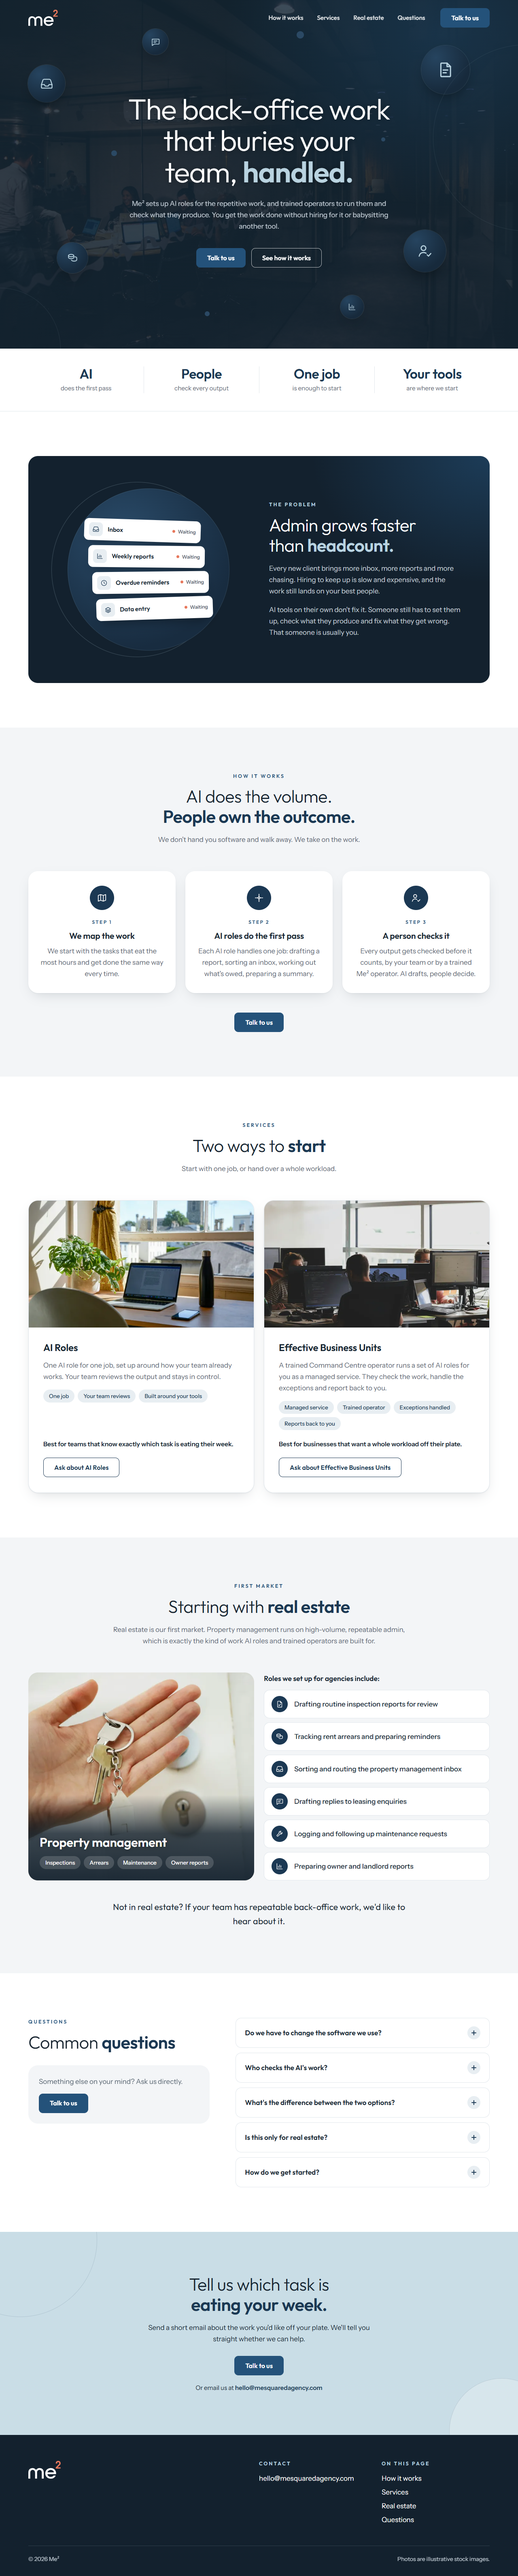
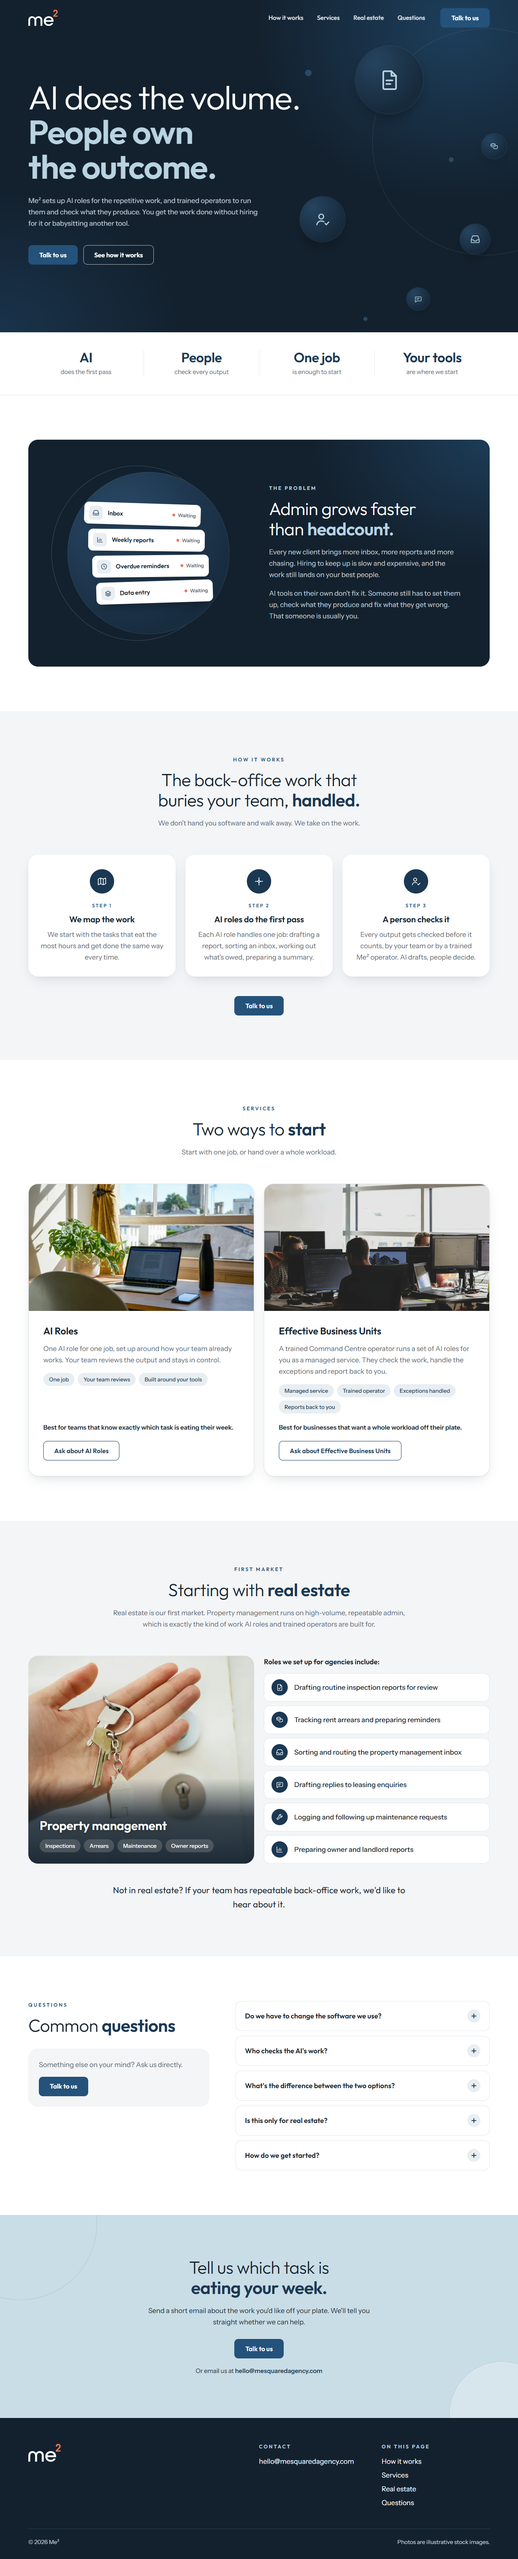
Lead with "AI does the volume. People own the outcome." in the hero
EC preferred this headline, as shown in the link-preview image. The
hero now matches that image: the headline left-aligned in two lines,
the icon bubbles grouped on the right, plain navy with soft glows and
no photo. "The back-office work that buries your team, handled." now
heads the How it works section, so both approved lines stay on the
page. The unused hero photo is removed and the docs updated.
npm run verify: 113 checks, all passing.

diff --git a/src/content/site.ts b/src/content/site.ts
@@ -44,7 +44,7 @@ export const content = {
   },
 
   hero: {
-    h1: 'The back-office work that buries your team, **handled.**',
+    h1: 'AI does the volume. **People own the outcome.**',
     subhead:
       '{SITE_NAME} sets up AI roles for the repetitive work, and trained operators to run them and check what they produce. You get the work done without hiring for it or babysitting another tool.',
     primary: 'Talk to us',
@@ -74,7 +74,7 @@ export const content = {
 
   how: {
     eyebrow: 'How it works',
-    h2: 'AI does the volume. **People own the outcome.**',
+    h2: 'The back-office work that buries your team, **handled.**',
     stepLabel: 'Step',
     cta: 'Talk to us',
     intro: "We don't hand you software and walk away. We take on the work.",

diff --git a/BRIEF.md b/BRIEF.md
@@ -1,5 +1,7 @@
-# Me² — Build Brief v0.9
+# Me² — Build Brief v0.10
 Owner: Elliot Crabb (EC) · Decision-maker: Patrick · Date: 9 Oct 2026 · Mode: New build
+
+v0.10 (9 Oct 2026): EC preferred the "AI does the volume. People own the outcome." hero from the link-preview image. The hero is now that headline, left-aligned, with the icon bubbles grouped on the right and no photo; "The back-office work that buries your team, handled." moves to head How it works.
 
 v0.9 (9 Oct 2026): EC approved the v0.8 direction ("yeah sure"), approved licensed stock photos, and asked that the logo not be forgotten. Adds four Unsplash photos (§5 Imagery), a vector logo traced from the supplied PNG and used in the header, footer, favicon, OG image and `/logo.png`, and copy for the remaining sections (Appendix A: offers, real estate, FAQ, footer).
 
@@ -114,8 +116,8 @@ Copy in Appendix A writes `{SITE_NAME}`, `{SITE_NAME_PLAIN}`, `{CONTACT_EMAIL}`,
 - Buttons: radius 10px, min height 48px (44px in the header), Outfit 600. Primary = steel with white text. Secondary on dark = 1.5px white outline; on light = 1.5px navy outline. No icons in labels.
 - Type: headings in Outfit Variable (OFL, `@fontsource-variable/outfit`), weight 300 with the emphasised part at 600; body in Instrument Sans Variable 400/600. Both self-hosted, latin subset, preloaded. Scale: H1 `clamp(2.5rem, 5.6vw, 4.5rem)`/1.08; H2 `clamp(1.9rem, 3.4vw, 2.75rem)`/1.15; H3 1.3rem 600; body 17px/1.65; eyebrow 0.78rem 600, letter-spacing 0.24em, uppercase.
 - Headings in Appendix A mark their bold part with `**…**`; render it as `<strong>`. Hyphenated words never break across lines.
-- Hero: full-height navy with two soft radial glows, centred copy, and decorative floating circles holding line icons (inbox, report, money, chat, chart, person-check), plus faint orbit rings. Three circles on phones, none behind text. Gentle float animation, off for reduced motion.
-- Imagery: no Me² photography exists yet. Four licensed Unsplash photos (EC approved 9 Oct) set the mood: a dim office behind the hero (tinted navy to 80–88% so white text passes contrast over its busiest part), a laptop by a window (AI Roles card), people at screens seen from behind (Effective Business Units card) and keys at a front door (real estate photo card). They are atmosphere only, credited in `docs/media.md`, never captioned as Me²'s team, office or clients, and the footer says "Photos are illustrative stock images." Drawn illustrations (icon bubbles, the "work piling up" card stack) carry the rest. No stock or AI-generated people as staff or testimonials. Real Me² photos replace stock as soon as they exist.
+- Hero: full-height navy with two soft radial glows (no photo), matching the link-preview image. Left-aligned H1 in two lines: "AI does the volume." light white, "People own the outcome." bold pale blue on its own line. The right 46% holds decorative floating circles with line icons (report, person-check, inbox, money, chat) and a faint orbit ring, clear of the nav and text. Phones: three small faint circles along the top-right, above the headline. Gentle float, off for reduced motion.
+- Imagery: no Me² photography exists yet. Three licensed Unsplash photos (EC approved 9 Oct) set the mood: a laptop by a window (AI Roles card), people at screens seen from behind (Effective Business Units card) and keys at a front door (real estate photo card). They are atmosphere only, credited in `docs/media.md`, never captioned as Me²'s team, office or clients, and the footer says "Photos are illustrative stock images." Drawn illustrations (icon bubbles, the "work piling up" card stack) carry the rest. No stock or AI-generated people as staff or testimonials. Real Me² photos replace stock as soon as they exist.
 - Icons: drawn for this site (`src/components/Icon.astro`), 24px grid, 1.6 stroke. No icon library.
 - Logo: vector SVGs traced from the supplied me² PNG (`src/assets/brand/me2-logo.svg`, navy "me"; `me2-logo-light.svg`, white "me"; coral "2" in both), inlined in the header (40px, 32px on phones) and footer (44px). `npm run brand` makes `/logo.png` (1200px), the favicons and the OG image from them. A designer master SVG replaces the traced ones when supplied. Never the reflected "we" concept or the "from me to we." tagline (not approved; §13 #9).
 - Spacing: section padding 110px desktop / 72px phone; content max width 1140px; side padding 20px phone / 40px desktop. Radius 14px small, 24px cards and panels. Soft, low card shadow.
@@ -131,7 +133,7 @@ Section order below. Backgrounds alternate ink/paper from the sections actually 
 
 ### 6.2 Hero
 - Purpose: say what Me² does in one breath and get the click. Copy: A.2
-- Layout: centred H1 (max 17ch, emphasised word in pale), subhead (on-dark, max 58ch), primary button + white-outline "See how it works" (anchors to `#how`), location line below. Decorative bubbles and rings per §5.
+- Layout: left-aligned H1 (two lines, bold line in pale), subhead (on-dark, max 52ch), primary button + white-outline "See how it works" (anchors to `#how`), location line below. Decorative bubbles and ring on the right per §5.
 - Flag: `showLocations` controls the location line. If off: not rendered.
 
 ### 6.2b Pillars band
@@ -321,7 +323,7 @@ Needs professional review (never resolved by this brief): #3 GST, #4, #6, #7 num
 - Button: `Talk to us`
 
 ### A.2 Hero
-- H1: `The back-office work that buries your team, **handled.**`
+- H1: `AI does the volume. **People own the outcome.**`
 - Subhead: `{SITE_NAME} sets up AI roles for the repetitive work, and trained operators to run them and check what they produce. You get the work done without hiring for it or babysitting another tool.`
 - Primary button: `Talk to us`
 - Secondary link: `See how it works`
@@ -342,7 +344,7 @@ Needs professional review (never resolved by this brief): #3 GST, #4, #6, #7 num
 
 ### A.4 How it works
 - Eyebrow: `How it works`
-- H2: `AI does the volume. **People own the outcome.**`
+- H2: `The back-office work that buries your team, **handled.**`
 - Step labels: `Step 1`, `Step 2`, `Step 3`
 - Button after the steps: `Talk to us`
 - Intro: `We don't hand you software and walk away. We take on the work.`

diff --git a/docs/media.md b/docs/media.md
@@ -8,14 +8,13 @@ All from Unsplash under the [Unsplash License](https://unsplash.com/license): fr
 
 | File (`src/assets/photos/`) | Where it shows | Photographer | Source |
 | --- | --- | --- | --- |
-| `hero-office.jpg` | Hero background, under a heavy navy tint | Mario Gogh | https://unsplash.com/photos/VBLHICVh-lI |
 | `offer-ai-roles.jpg` | AI Roles card | Mikey Harris | https://unsplash.com/photos/kw0z6RyvC0s |
 | `offer-ebu.jpg` | Effective Business Units card | Compagnons | https://unsplash.com/photos/Fa9b57hffnM |
 | `real-estate-keys.jpg` | "Starting with real estate" photo card | Maria Ziegler | https://unsplash.com/photos/jJnZg7vBfMs |
 
-The originals were downloaded at 2400px wide and saved with their metadata stripped. Astro makes resized AVIF/WebP copies at build time, so the page only loads the size each screen needs. The hero photo loads first; the others load as you scroll.
+The originals were downloaded at 2400px wide and saved with their metadata stripped. Astro makes resized AVIF/WebP copies at build time, so the page only loads the size each screen needs. They load as you scroll. The hero has no photo (EC preferred the plain navy version on 9 Oct).
 
-**Swapping a photo:** save the new photo over the file with the same name (landscape, at least 2000px wide), rebuild, and update this table. Keep the hero photo dark and uncluttered so the white headline stays readable.
+**Swapping a photo:** save the new photo over the file with the same name (landscape, at least 2000px wide), rebuild, and update this table.
 
 ## Logo
 | File | What it is |

diff --git a/docs/supplied-assets.md b/docs/supplied-assets.md
@@ -5,7 +5,7 @@ Drop each file or value where shown and the site picks it up on the next build. 
 | What | Where it goes | Until then |
 | --- | --- | --- |
 | Logo master as SVG from the designer (navy "me", coral "2", no reflection) | Replace `src/assets/brand/me2-logo.svg` and `me2-logo-light.svg`, then run `npm run brand` | A vector traced from the 427×328 PNG supplied on 7 Oct. Crisp at web sizes, slightly soft when printed very large |
-| Real photos of Me² (Command Centre, team at work, with their permission) | `src/assets/photos/` (same file names to swap a stock photo, see docs/media.md) | Four licensed Unsplash photos, used as atmosphere only |
+| Real photos of Me² (Command Centre, team at work, with their permission) | `src/assets/photos/` (same file names to swap a stock photo, see docs/media.md) | Three licensed Unsplash photos, used as atmosphere only |
 | Final brand palette and fonts from the designer | `src/styles/tokens.css` | Navy and coral taken from the logo; Outfit + Instrument Sans |
 | Booking link (Cal.com or Calendly) | `BOOKING_URL` in `src/config/site.config.ts`, then `enableBooking` | No "Book a call" button |
 | Legal entity name and registration number | `LEGAL_ENTITY` in `src/config/site.config.ts`, then `showLegalEntity` | No entity line in the footer |

diff --git a/CLAUDE.md b/CLAUDE.md
@@ -14,7 +14,7 @@ One-page sales site for Me² (mesquaredagency.com). Primary goal: the visitor cl
 - Visible name is always `Me²`. "Me Squared" only in alternateName, aria-labels and mailto subjects. Never ME2, Me2, MeSquared.
 - Australian English, sentence case, plain-spoken. Banned words: revolutionary, game-changing, supercharge, seamless, cutting-edge, unlock, guarantee, guaranteed. Grep changed copy before committing.
 - Never invent names, testimonials, statistics, results, logos or prices. Never name individuals. Real estate appears only in its own section.
-- No stock photos, AI-generated people or property imagery. Never use the designer's reflected "we" logo concept or the "from me to we." tagline (not approved).
+- Stock photos only as credited atmosphere (docs/media.md); no AI-generated people; never stock people as staff or testimonials. Never use the designer's reflected "we" logo concept or the "from me to we." tagline (not approved).
 - Forms collect contact details and a short task description only; never fields for financial, health or identity information.
 
 ## Design

diff --git a/README.md b/README.md
@@ -4,7 +4,7 @@ One-page sales site for Me² ("Me Squared"), which sets up AI roles for repetiti
 
 Built with Astro + TypeScript and Tailwind CSS v4, as a static site for Cloudflare Pages. No CMS, database or third-party scripts. Full spec: [BRIEF.md](BRIEF.md). Standing rules for future changes: [CLAUDE.md](CLAUDE.md).
 
-**Look:** an established business-services style (EC's reference was intelligentoffice.com): navy hero with a tinted photo and floating icons, light-and-bold headings, white cards on soft grey, steel-blue buttons. The me² logo's navy and coral run through it.
+**Look:** an established business-services style (EC's reference was intelligentoffice.com): a navy hero headed "AI does the volume. People own the outcome." with floating icons, light-and-bold headings, white cards on soft grey, steel-blue buttons. The me² logo's navy and coral run through it.
 
 **Content rules:** real claims only (no invented numbers, testimonials or clients). Stock photos are illustrative and credited in [docs/media.md](docs/media.md). Never copy competitors.
 

diff --git a/DECISIONS.md b/DECISIONS.md
@@ -25,3 +25,4 @@ Judgement calls made during the build, newest last.
 | 9 Oct 2026 | Hero bubbles keep their gentle float with `will-change: transform` | Without it the float cost about 10 mobile Lighthouse points; with it mobile scores 91–98 |
 | 9 Oct 2026 | Lighthouse runs through its Node API against Edge launched by Playwright; mobile takes the median of 3 runs | The CLI couldn't attach to Edge; single mobile runs swung 82–94 with PC load |
 | 9 Oct 2026 | Dev dependencies added: `@axe-core/playwright`, `lighthouse`, `linkinator` (all allowed by BRIEF §3) | `npm run verify` |
+| 9 Oct 2026 | Hero headline is now "AI does the volume. People own the outcome.", left-aligned with the bubbles on the right and no photo, like the link-preview image; the old H1 heads How it works. `hero-office.jpg` removed | EC: "I prefer your AI does the volume, people own the outcome hero". Swapping the two approved lines needed no new copy |
